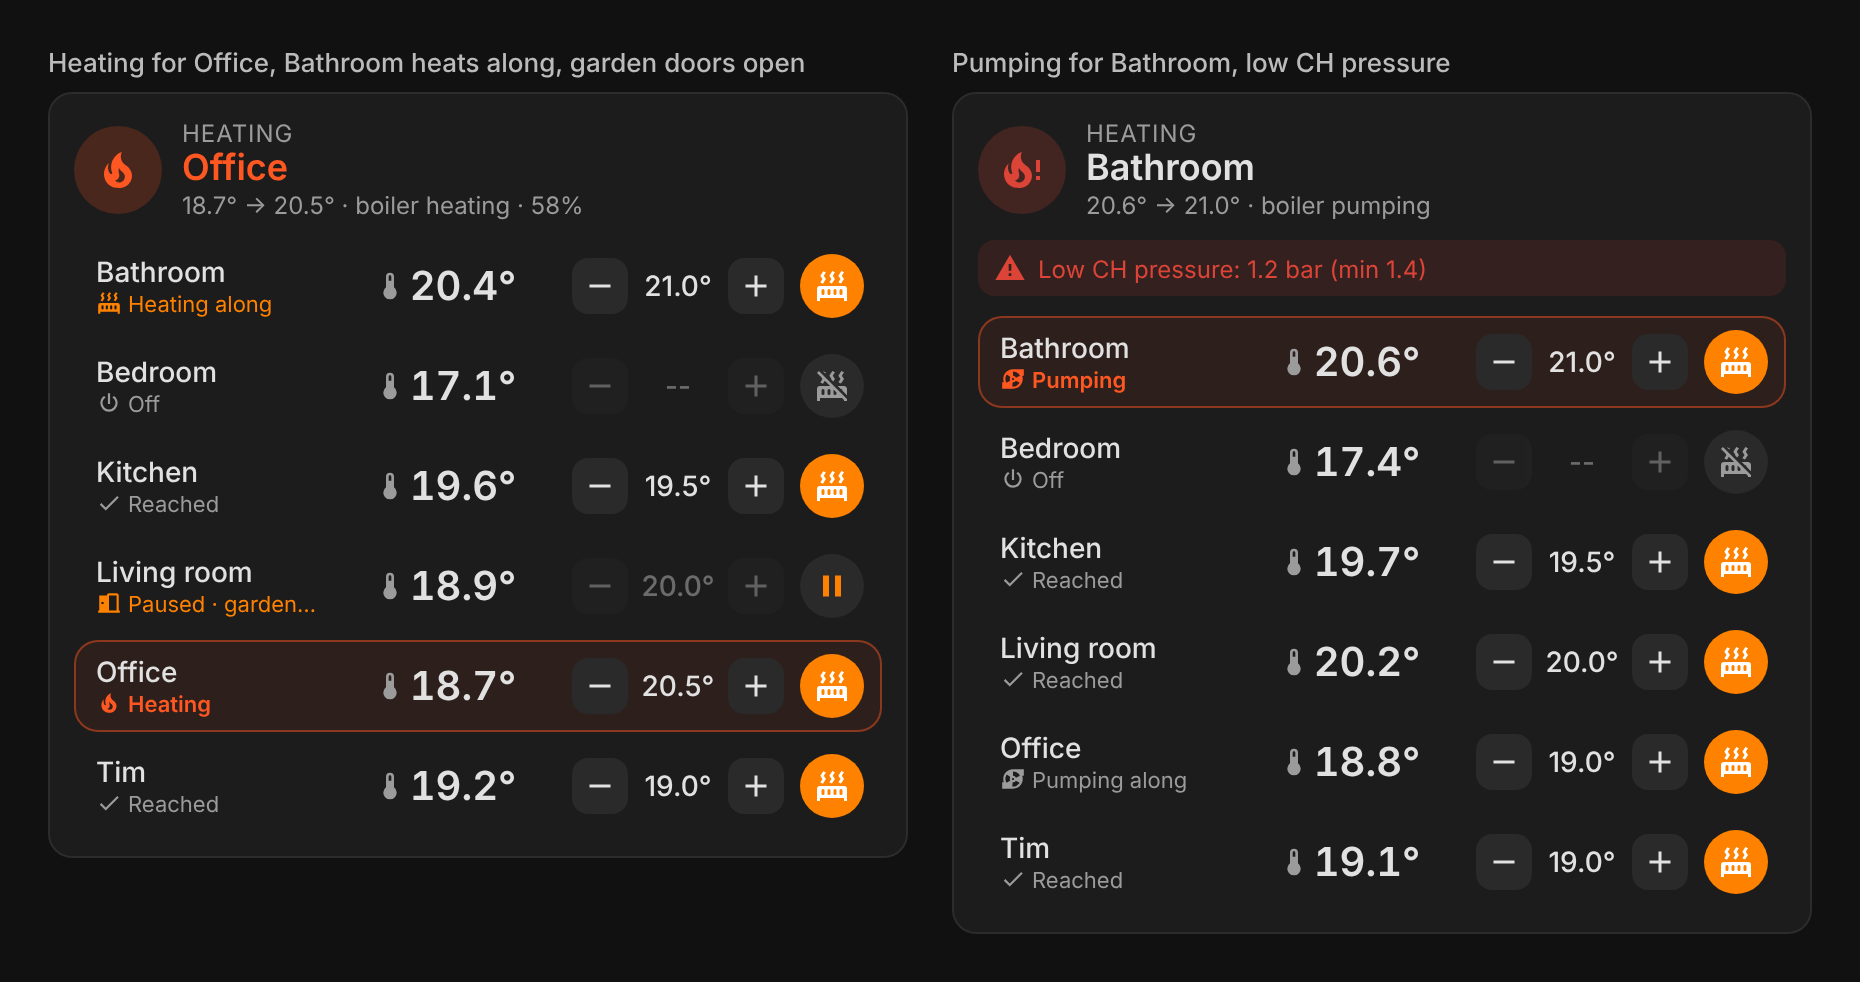
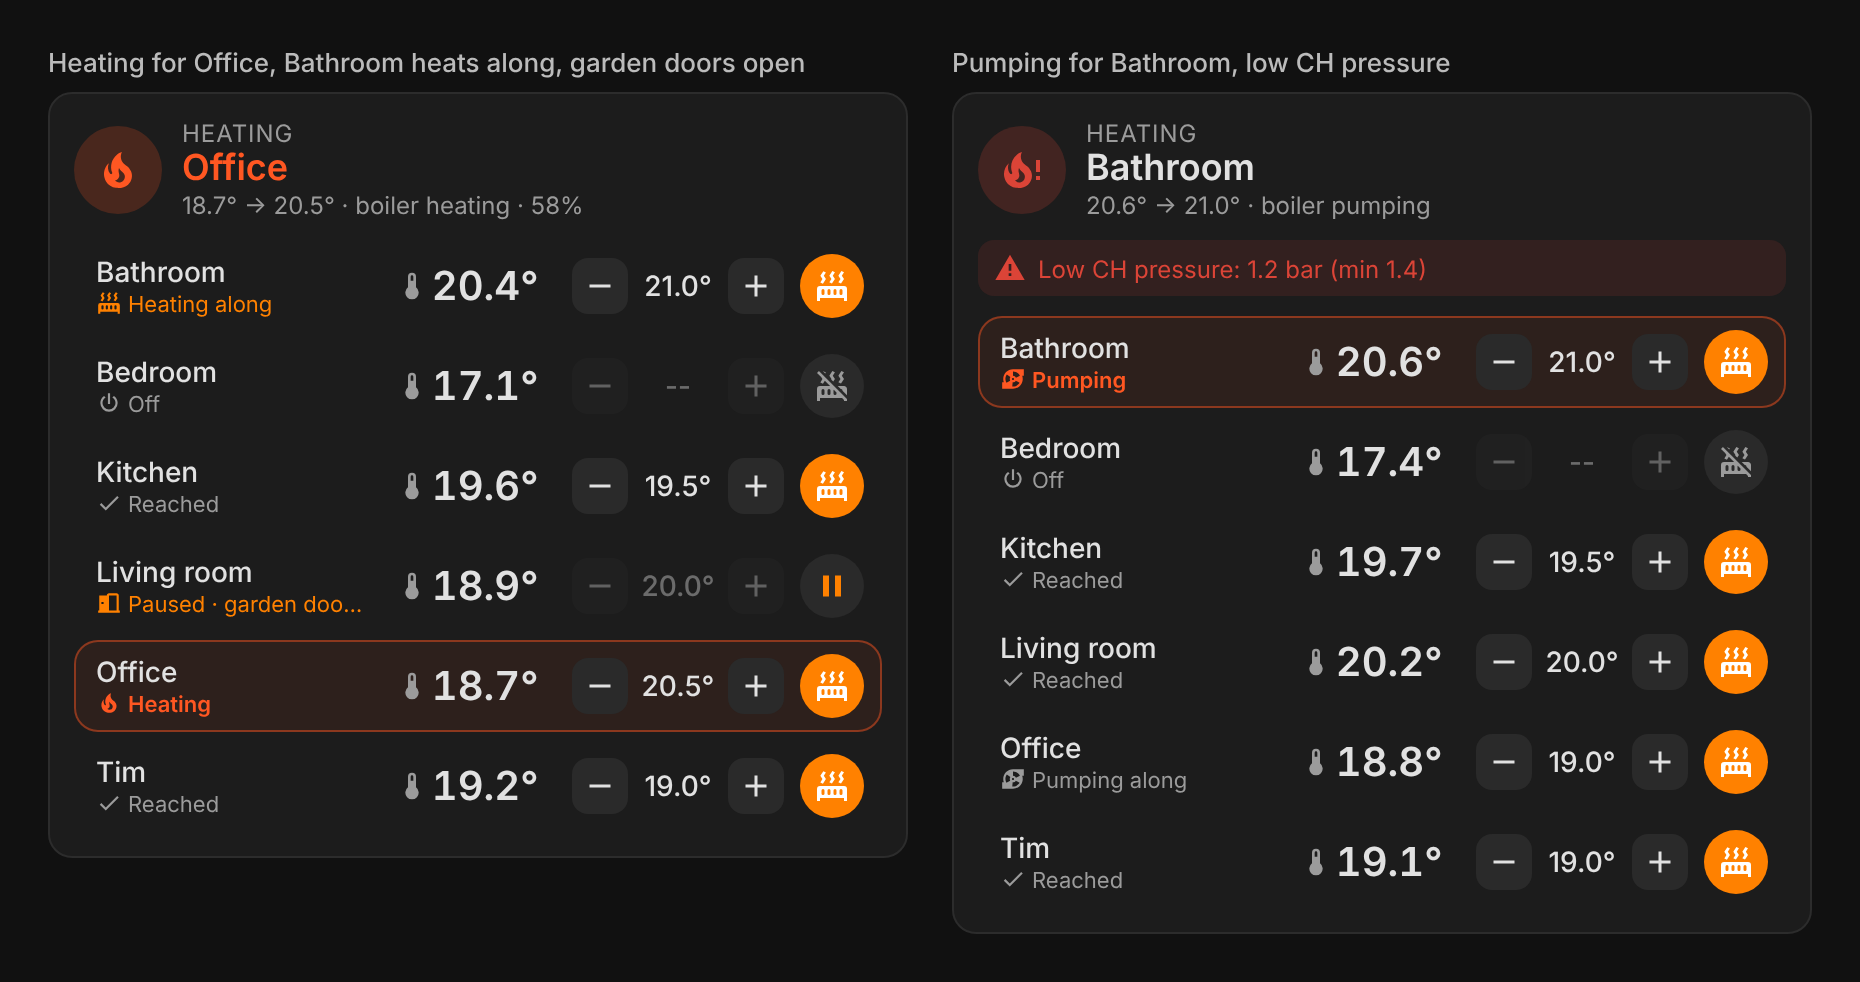
Narrow cards: names and roles get more room; add multi-room card image
Claude-Session: https://claude.ai/code/session_01Cwa4KQvb3jDfQr1qLASP9h

diff --git a/heating-control-card.js b/heating-control-card.js
@@ -105,7 +105,7 @@ const STYLE = `
 ${Object.values(COLORS).map(([v, d]) => `    ${v}: ${d};`).join("\n")}
     --hc-soft: var(--secondary-background-color, rgba(127,127,127,.15));
   }
-  ha-card { padding: 12px; box-sizing: border-box; display: flex; flex-direction: column; gap: 10px; }
+  ha-card { container-type: inline-size; padding: 12px; box-sizing: border-box; display: flex; flex-direction: column; gap: 10px; }
   button {
     border: none; font: inherit; cursor: pointer; padding: 0;
     display: flex; align-items: center; justify-content: center;
@@ -173,7 +173,7 @@ ${Object.values(COLORS).map(([v, d]) => `    ${v}: ${d};`).join("\n")}
   /* Rooms */
   .rooms { display: flex; flex-direction: column; gap: 4px; }
   .row {
-    display: grid; grid-template-columns: minmax(0,1fr) minmax(64px,1fr) auto 34px; align-items: center; gap: 8px;
+    display: grid; grid-template-columns: minmax(0,3fr) minmax(56px,2fr) auto 34px; align-items: center; gap: 8px;
     padding: 6px 6px 6px 10px; border-radius: 12px; border: 1px solid transparent;
   }
   .row.win { border-color: color-mix(in srgb, var(--hc-fire) 45%, transparent); background: color-mix(in srgb, var(--hc-fire) 8%, transparent); }
@@ -203,7 +203,7 @@ ${Object.values(COLORS).map(([v, d]) => `    ${v}: ${d};`).join("\n")}
   /* One room: its Heat/Off sits in the header, the row loses that column. */
   #hmode { display: none; flex: none; }
   .single #hmode { display: flex; }
-  .single .row { grid-template-columns: minmax(0,1fr) minmax(64px,1fr) auto; }
+  .single .row { grid-template-columns: minmax(0,3fr) minmax(56px,2fr) auto; }
   .single .row .mode { display: none; }
   #hmode.heat { background: var(--hc-heat); color: #fff; }
   #hmode.paused { color: var(--hc-heat); opacity: 1; cursor: pointer; }
@@ -233,7 +233,8 @@ ${Object.values(COLORS).map(([v, d]) => `    ${v}: ${d};`).join("\n")}
     100% { transform: rotate(-1.5deg) scaleY(1);    opacity: .9; }
   }
   @media (prefers-reduced-motion: reduce) { .burning #flame, .dhw #flame, #fault, #drop { animation: none !important; } .coldwater #flame { clip-path: none; } .coldwater #drip { display: none; } }
-  @media (max-width: 360px) { .row { gap: 4px; } .rcur { font-size: 18px; } .rcur ha-icon { display: none; } }
+  /* Narrow card (phone, small grid cell): room name and role get the space. */
+  @container (max-width: 360px) { .row { gap: 4px; } .rcur { font-size: 18px; } .rcur ha-icon { display: none; } }
 `;
 
 class HeatingControlCard extends HTMLElement {

diff --git a/CLAUDE.md b/CLAUDE.md
@@ -13,6 +13,7 @@ HACS dashboard card (Lovelace) for the multi-room heating in
 | `shot.png` | README screenshot, linked by absolute raw URL so it renders in HACS. |
 | `examples.png` | README grid of six states (one room and all rooms; hot/cold water, heating, fault), rendered from the real card in headless Chromium with stub `ha-card`/`ha-icon` (`@mdi/js` paths) and a fake `hass`. Regenerate when the look changes. |
 | `multi-room.png` | README example with six rooms covering every row role (Heating, Heating along, Pumping, Pumping along, Reached, Off, Paused) and the low pressure warning. Same render setup; regenerate with `examples.png`. |
+| `multi-room-card.png` | One six-room card at 372 px card width, rendered 2x, page width 412 px like `shot.png`. Used in the BarBaar44/thermostat README with `<img width="412">` so it shows at the same scale as `shot.png`. |
 | `.github/workflows/validate.yml` | `hacs/action`, category `plugin`, ignoring `brands topics` only. Must stay green. |
 
 Repo layout and README style follow [BarBaar44/EV-Trip-Card](https://github.com/BarBaar44/EV-Trip-Card): header comment with repo URL and MIT, `VERSION` constant, `DEFAULTS` block, console banner, README with feature bullets, Install line, option/default table, Licence.
@@ -56,6 +57,7 @@ Row roles: Heating / Pumping (winner), Heating along / Pumping along (below targ
 - Setpoint taps are debounced per room: optimistic value at once, one service call 0.8 s after the last tap, pending value dropped when HA confirms or after 5 s.
 - Rows are rebuilt only when the room set changes; otherwise updated in place (keeps pending timers).
 - 0.2 configs with `climate:` still work as a one-room list. When `thermostats` is set, `climate`/`name`/`paused` are ignored and a console warning is logged.
+- Row grid is `3fr / 2fr` for name and room temperature (the same in every row, so temperatures line up). The card is a size container: at 360 px content width or less the thermometer icon hides and gaps shrink. Long role texts end in an ellipsis.
 - A one-room `thermostats` list is a supported, intended setup (the owner's own dashboard uses it). With one visible room the card gets class `single`: the row's Heat/Off button is hidden and mirrored as `#hmode` in the header. It is still that room's `set_hvac_mode`, never the `ch_enabled` switch.
 
 ## Releasing
